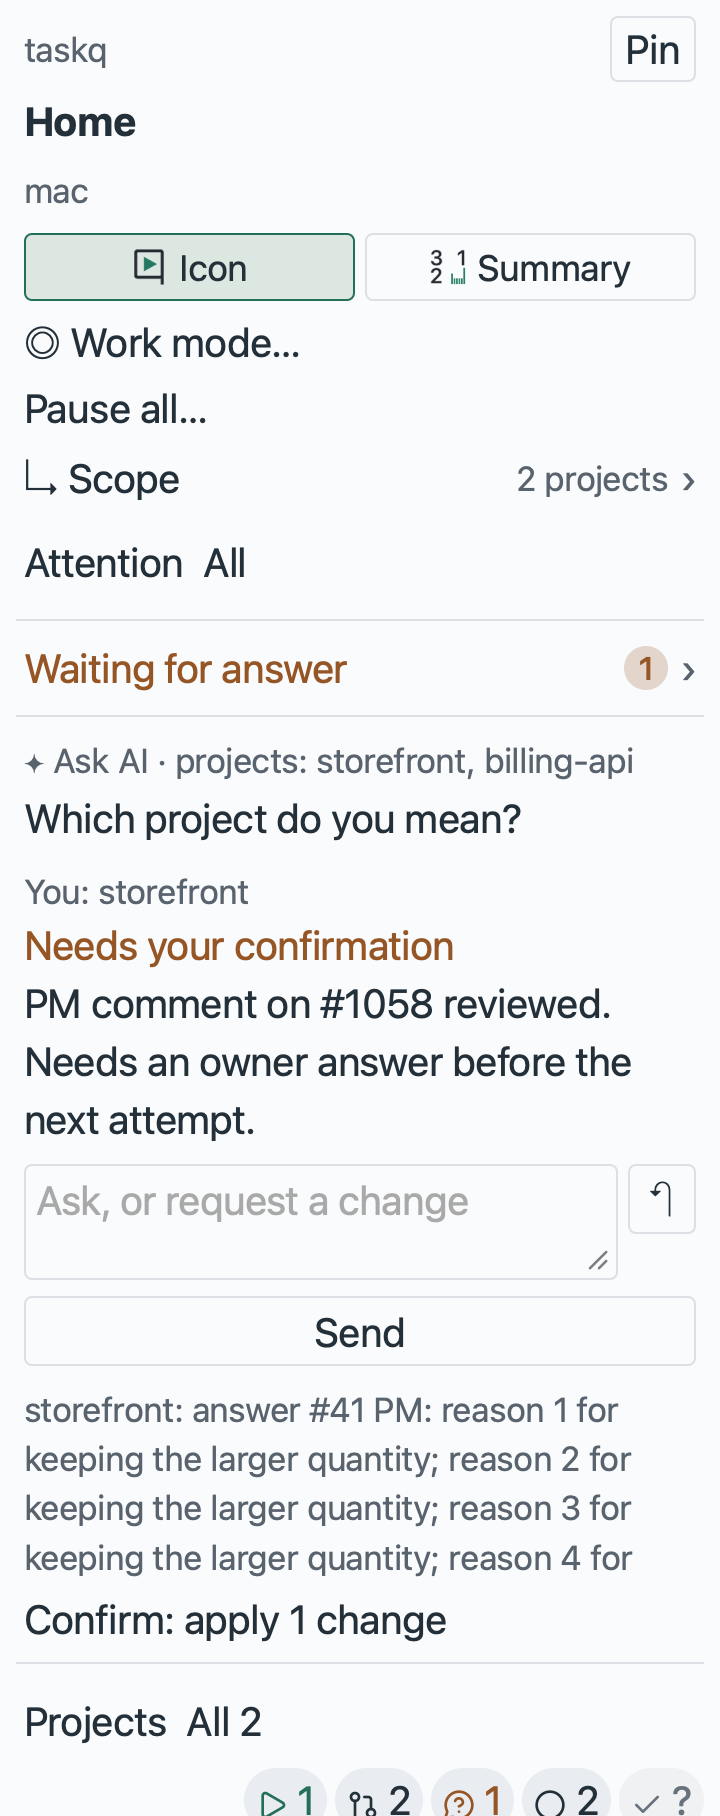
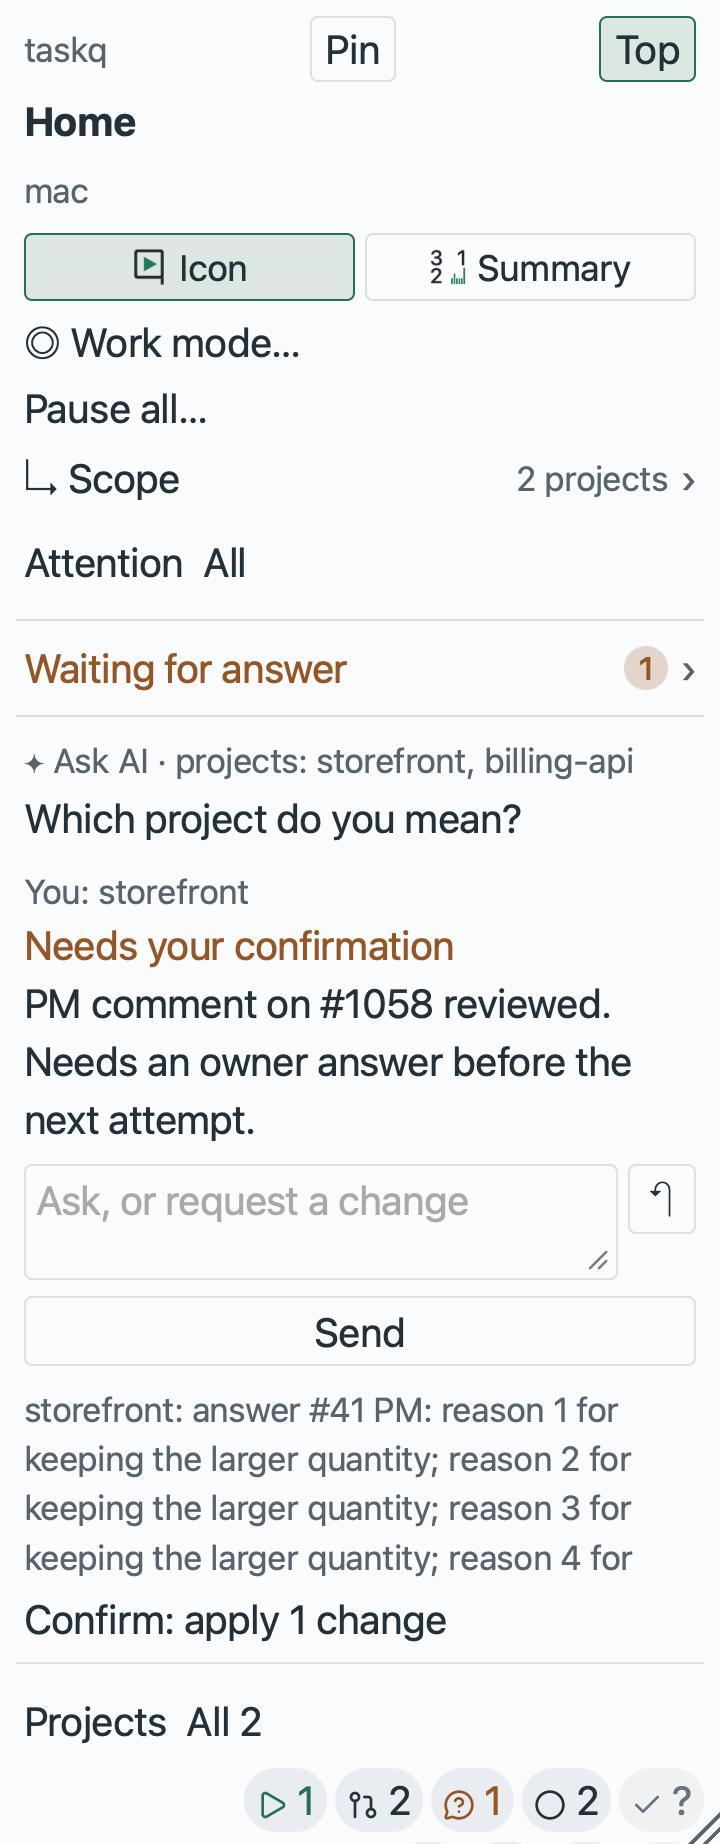
Tray Home: realign bounded AI blocks after a scroll; keep fit() for the resizable window
After the rebase onto the resizable window, fit() keeps its signature; render
realigns the bounded blocks after it and refits only when one shrank. Once a
reader's scroll settles, the block realigns on whole lines. macOS snapshots
recaptured on the rebased code.

Task: https://github.com/taskqorg/taskq/issues/1115

Claude-Session: https://claude.ai/code/session_015wSw9Aynq2hDp3tRwWU99E

diff --git a/src/tray.html b/src/tray.html
@@ -68,7 +68,7 @@ const send=m=>window.ipc&&window.ipc.postMessage(JSON.stringify(m));
 // measure at the target width: after a font change the window still has the old width, so text wraps differently
 // g: this renderer's scrollbar width; a menu taller than its window scrolls and the window adds it (#1073)
 function gutter(){const d=document.createElement('div');d.style.cssText='position:absolute;top:-99px;width:60px;height:60px;overflow:scroll;scrollbar-width:thin';document.body.append(d);const g=d.offsetWidth-d.clientWidth;d.remove();return Math.ceil(g);}
-function fit(place){const size=manualSize||S.size,w=size?size[0]:S.font>=18?360:320;document.body.style.width='100%';menu.style.width=w+'px';place?.();send({a:'size',d:devicePixelRatio,g:size?0:gutter(),w,h:size?size[1]:Math.ceil(menu.getBoundingClientRect().height)});menu.style.width='100%';}
+function fit(){const size=manualSize||S.size,w=size?size[0]:S.font>=18?360:320;document.body.style.width='100%';menu.style.width=w+'px';send({a:'size',d:devicePixelRatio,g:size?0:gutter(),w,h:size?size[1]:Math.ceil(menu.getBoundingClientRect().height)});menu.style.width='100%';}
 let manualSize=null;
 const menu=document.querySelector('.menu');
 let aiText=null,aiMenu=false,aiConfirm=null,addConfirm=false;
@@ -408,8 +408,12 @@ function render(navigating=false){
   if(restored&&!navigating){restored.focus({preventScroll:true});if(caret)restored.setSelectionRange(...caret);}
   else if(!navigating){const target=focusedSummary>=0?menu.querySelectorAll('summary')[focusedSummary]:focusKey&&focusKey!=='{}'?[...menu.querySelectorAll('button,.grip')].find(b=>JSON.stringify(b.dataset)===focusKey):null;target?.focus({preventScroll:true});}
   document.scrollingElement.scrollTop=scroll;
-  // at the fitted width: a new exchange or text size opens at the newest entry; a tick keeps the reader's place
-  fit(()=>menu.querySelectorAll('[data-bound]').forEach(c=>{c.scrollTop=bounds.has(c.dataset.bound)?bounds.get(c.dataset.bound):c.classList.contains('aichain')?c.lastElementChild.offsetTop:0;wholeLines(c);}));}
+  fit();
+  // after fit() sets the width: a new exchange or text size opens at the newest entry; a tick keeps the reader's place;
+  // a block that drops a cut line asks for the smaller height
+  const bound=[...menu.querySelectorAll('[data-bound]')];
+  bound.forEach(c=>{c.scrollTop=bounds.has(c.dataset.bound)?bounds.get(c.dataset.bound):c.classList.contains('aichain')?c.lastElementChild.offsetTop:0;wholeLines(c);});
+  if(bound.some(c=>c.style.maxHeight))fit();}
 // a bounded block shows whole lines: a line cut at the top scrolls into view, or at the scroll end (the newest text)
 // moves out above; the bottom edge moves up to the first line it cuts
 function wholeLines(c){
@@ -423,7 +427,7 @@ function wholeLines(c){
   const bottom=top+c.clientHeight,tail=cut(bottom);if(tail>top&&tail<bottom)shrink(bottom-tail);}
 // a reader's scroll leaves cut lines: once it settles, the block takes its CSS bound again and realigns on whole lines
 menu.addEventListener('scroll',e=>{const c=e.target;if(!c.dataset?.bound)return;clearTimeout(c.settling);
-  c.settling=setTimeout(()=>{if(!c.isConnected)return;const s=c.scrollTop;c.style.maxHeight='';fit(()=>{c.scrollTop=s;wholeLines(c);});},150);},true);
+  c.settling=setTimeout(()=>{if(!c.isConnected)return;const s=c.scrollTop;c.style.maxHeight='';c.scrollTop=s;wholeLines(c);fit();},150);},true);
 window.taskq={receive(s){
   if(s.answerReceipt){answerReceipt(s.answerReceipt);return;}
   if(s.capmsg){resourceReceipt(s.capmsg);return;}

diff --git a/docs/shots/evidence/1115/README.md b/docs/shots/evidence/1115/README.md
@@ -20,7 +20,7 @@ Claude visual review:
   ends on whole lines.
 - After, no change for the #1059 states: `result-dark-home-16.png` (Next buttons, composer, Projects),
   `failed-dark-home-20.png` (`Edit and send again`), `proposal-dark-home-20.png` (a one-line op is not bounded).
-- macOS WKWebView (`taskq tray --snapshot`, debug build), `macos-long-proposal-dark-home-16.png` and
+- macOS WKWebView (`taskq tray --snapshot`, debug build, recaptured after the rebase onto the resizable window), `macos-long-proposal-dark-home-16.png` and
   `macos-long-proposal-light-home-20.png`: the op under Send is 4 whole lines, `Confirm: apply 1 change` and the
   Projects header show below it at 16 and 20 px, and the exchange preview ends on a whole line.
 - The full text stays reachable by scrolling each block; the AI workspace that keeps it in full is deferred (#1115 Scope).
